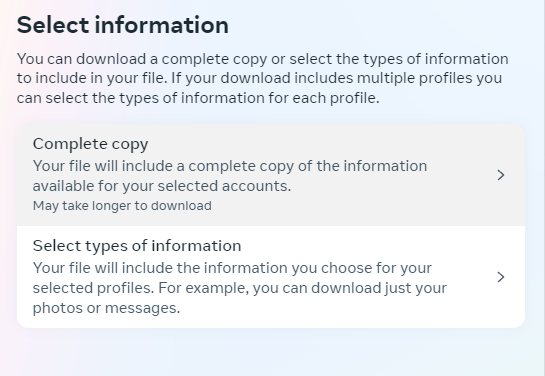
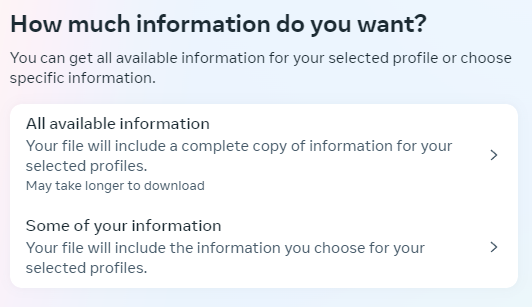
Guide Updated!

diff --git a/src/components/Upload.jsx b/src/components/Upload.jsx
@@ -109,7 +109,7 @@ function Upload() {
                             <div className="w-full mt-5 pb-4">
                                 <div>
                                     <div className="text-6xl font-bold text-white mb-2" style={{ fontFamily: 'MatterTRIAL' }}><span className={`text-[#06f]`} style={{ fontFamily: 'MatterTRIAL' }}>A</span>bout</div>
-                                    <div className="mt-6 text-xl font-medium flex flex-col p-4 lg:p-0 gap-2 items-center text-white"><span className='gap-2'>This is an <a className="opensrc underline underline-offset-2 hover:underline-offset-4 duration-150" style={{ textDecorationColor: '#06f' }} href="https://github.com/CoderPopCat/instawrapper">Open Source</a> Instagram Data Package Explorer, built with&nbsp;<svg className='inline' xmlns="http://www.w3.org/2000/svg" xmlns:xlink="http://www.w3.org/1999/xlink" aria-hidden="true" role="img" class="iconify iconify--logos" width="35.93" height="32" preserveAspectRatio="xMidYMid meet" viewBox="0 0 256 228"><path fill="#00D8FF" d="M210.483 73.824a171.49 171.49 0 0 0-8.24-2.597c.465-1.9.893-3.777 1.273-5.621c6.238-30.281 2.16-54.676-11.769-62.708c-13.355-7.7-35.196.329-57.254 19.526a171.23 171.23 0 0 0-6.375 5.848a155.866 155.866 0 0 0-4.241-3.917C100.759 3.829 77.587-4.822 63.673 3.233C50.33 10.957 46.379 33.89 51.995 62.588a170.974 170.974 0 0 0 1.892 8.48c-3.28.932-6.445 1.924-9.474 2.98C17.309 83.498 0 98.307 0 113.668c0 15.865 18.582 31.778 46.812 41.427a145.52 145.52 0 0 0 6.921 2.165a167.467 167.467 0 0 0-2.01 9.138c-5.354 28.2-1.173 50.591 12.134 58.266c13.744 7.926 36.812-.22 59.273-19.855a145.567 145.567 0 0 0 5.342-4.923a168.064 168.064 0 0 0 6.92 6.314c21.758 18.722 43.246 26.282 56.54 18.586c13.731-7.949 18.194-32.003 12.4-61.268a145.016 145.016 0 0 0-1.535-6.842c1.62-.48 3.21-.974 4.76-1.488c29.348-9.723 48.443-25.443 48.443-41.52c0-15.417-17.868-30.326-45.517-39.844Zm-6.365 70.984c-1.4.463-2.836.91-4.3 1.345c-3.24-10.257-7.612-21.163-12.963-32.432c5.106-11 9.31-21.767 12.459-31.957c2.619.758 5.16 1.557 7.61 2.4c23.69 8.156 38.14 20.213 38.14 29.504c0 9.896-15.606 22.743-40.946 31.14Zm-10.514 20.834c2.562 12.94 2.927 24.64 1.23 33.787c-1.524 8.219-4.59 13.698-8.382 15.893c-8.067 4.67-25.32-1.4-43.927-17.412a156.726 156.726 0 0 1-6.437-5.87c7.214-7.889 14.423-17.06 21.459-27.246c12.376-1.098 24.068-2.894 34.671-5.345a134.17 134.17 0 0 1 1.386 6.193ZM87.276 214.515c-7.882 2.783-14.16 2.863-17.955.675c-8.075-4.657-11.432-22.636-6.853-46.752a156.923 156.923 0 0 1 1.869-8.499c10.486 2.32 22.093 3.988 34.498 4.994c7.084 9.967 14.501 19.128 21.976 27.15a134.668 134.668 0 0 1-4.877 4.492c-9.933 8.682-19.886 14.842-28.658 17.94ZM50.35 144.747c-12.483-4.267-22.792-9.812-29.858-15.863c-6.35-5.437-9.555-10.836-9.555-15.216c0-9.322 13.897-21.212 37.076-29.293c2.813-.98 5.757-1.905 8.812-2.773c3.204 10.42 7.406 21.315 12.477 32.332c-5.137 11.18-9.399 22.249-12.634 32.792a134.718 134.718 0 0 1-6.318-1.979Zm12.378-84.26c-4.811-24.587-1.616-43.134 6.425-47.789c8.564-4.958 27.502 2.111 47.463 19.835a144.318 144.318 0 0 1 3.841 3.545c-7.438 7.987-14.787 17.08-21.808 26.988c-12.04 1.116-23.565 2.908-34.161 5.309a160.342 160.342 0 0 1-1.76-7.887Zm110.427 27.268a347.8 347.8 0 0 0-7.785-12.803c8.168 1.033 15.994 2.404 23.343 4.08c-2.206 7.072-4.956 14.465-8.193 22.045a381.151 381.151 0 0 0-7.365-13.322Zm-45.032-43.861c5.044 5.465 10.096 11.566 15.065 18.186a322.04 322.04 0 0 0-30.257-.006c4.974-6.559 10.069-12.652 15.192-18.18ZM82.802 87.83a323.167 323.167 0 0 0-7.227 13.238c-3.184-7.553-5.909-14.98-8.134-22.152c7.304-1.634 15.093-2.97 23.209-3.984a321.524 321.524 0 0 0-7.848 12.897Zm8.081 65.352c-8.385-.936-16.291-2.203-23.593-3.793c2.26-7.3 5.045-14.885 8.298-22.6a321.187 321.187 0 0 0 7.257 13.246c2.594 4.48 5.28 8.868 8.038 13.147Zm37.542 31.03c-5.184-5.592-10.354-11.779-15.403-18.433c4.902.192 9.899.29 14.978.29c5.218 0 10.376-.117 15.453-.343c-4.985 6.774-10.018 12.97-15.028 18.486Zm52.198-57.817c3.422 7.8 6.306 15.345 8.596 22.52c-7.422 1.694-15.436 3.058-23.88 4.071a382.417 382.417 0 0 0 7.859-13.026a347.403 347.403 0 0 0 7.425-13.565Zm-16.898 8.101a358.557 358.557 0 0 1-12.281 19.815a329.4 329.4 0 0 1-23.444.823c-7.967 0-15.716-.248-23.178-.732a310.202 310.202 0 0 1-12.513-19.846h.001a307.41 307.41 0 0 1-10.923-20.627a310.278 310.278 0 0 1 10.89-20.637l-.001.001a307.318 307.318 0 0 1 12.413-19.761c7.613-.576 15.42-.876 23.31-.876H128c7.926 0 15.743.303 23.354.883a329.357 329.357 0 0 1 12.335 19.695a358.489 358.489 0 0 1 11.036 20.54a329.472 329.472 0 0 1-11 20.722Zm22.56-122.124c8.572 4.944 11.906 24.881 6.52 51.026c-.344 1.668-.73 3.367-1.15 5.09c-10.622-2.452-22.155-4.275-34.23-5.408c-7.034-10.017-14.323-19.124-21.64-27.008a160.789 160.789 0 0 1 5.888-5.4c18.9-16.447 36.564-22.941 44.612-18.3ZM128 90.808c12.625 0 22.86 10.235 22.86 22.86s-10.235 22.86-22.86 22.86s-22.86-10.235-22.86-22.86s10.235-22.86 22.86-22.86Z"></path></svg>&nbsp;&&nbsp;<i className="text-[red] fas fa-heart"></i></span><span className="gap-2">Your data is <span className="text-[#06f]">NOT</span> sent to our servers, and is processed by your device itself.</span><span className="gap-2">This tool is open source on GitHub, You may view the code / Host it on your own machine.</span></div>
+                                    <div className="mt-6 text-xl font-medium flex flex-col p-4 lg:p-0 gap-2 items-center text-white"><span className='gap-2'>This is an <a className="opensrc underline underline-offset-2 hover:underline-offset-4 duration-150" style={{ textDecorationColor: '#06f' }} href="https://github.com/CoderPopCat/instawrapped">Open Source</a> Instagram Data Package Explorer, built with&nbsp;<svg className='inline' xmlns="http://www.w3.org/2000/svg" xmlns:xlink="http://www.w3.org/1999/xlink" aria-hidden="true" role="img" class="iconify iconify--logos" width="35.93" height="32" preserveAspectRatio="xMidYMid meet" viewBox="0 0 256 228"><path fill="#00D8FF" d="M210.483 73.824a171.49 171.49 0 0 0-8.24-2.597c.465-1.9.893-3.777 1.273-5.621c6.238-30.281 2.16-54.676-11.769-62.708c-13.355-7.7-35.196.329-57.254 19.526a171.23 171.23 0 0 0-6.375 5.848a155.866 155.866 0 0 0-4.241-3.917C100.759 3.829 77.587-4.822 63.673 3.233C50.33 10.957 46.379 33.89 51.995 62.588a170.974 170.974 0 0 0 1.892 8.48c-3.28.932-6.445 1.924-9.474 2.98C17.309 83.498 0 98.307 0 113.668c0 15.865 18.582 31.778 46.812 41.427a145.52 145.52 0 0 0 6.921 2.165a167.467 167.467 0 0 0-2.01 9.138c-5.354 28.2-1.173 50.591 12.134 58.266c13.744 7.926 36.812-.22 59.273-19.855a145.567 145.567 0 0 0 5.342-4.923a168.064 168.064 0 0 0 6.92 6.314c21.758 18.722 43.246 26.282 56.54 18.586c13.731-7.949 18.194-32.003 12.4-61.268a145.016 145.016 0 0 0-1.535-6.842c1.62-.48 3.21-.974 4.76-1.488c29.348-9.723 48.443-25.443 48.443-41.52c0-15.417-17.868-30.326-45.517-39.844Zm-6.365 70.984c-1.4.463-2.836.91-4.3 1.345c-3.24-10.257-7.612-21.163-12.963-32.432c5.106-11 9.31-21.767 12.459-31.957c2.619.758 5.16 1.557 7.61 2.4c23.69 8.156 38.14 20.213 38.14 29.504c0 9.896-15.606 22.743-40.946 31.14Zm-10.514 20.834c2.562 12.94 2.927 24.64 1.23 33.787c-1.524 8.219-4.59 13.698-8.382 15.893c-8.067 4.67-25.32-1.4-43.927-17.412a156.726 156.726 0 0 1-6.437-5.87c7.214-7.889 14.423-17.06 21.459-27.246c12.376-1.098 24.068-2.894 34.671-5.345a134.17 134.17 0 0 1 1.386 6.193ZM87.276 214.515c-7.882 2.783-14.16 2.863-17.955.675c-8.075-4.657-11.432-22.636-6.853-46.752a156.923 156.923 0 0 1 1.869-8.499c10.486 2.32 22.093 3.988 34.498 4.994c7.084 9.967 14.501 19.128 21.976 27.15a134.668 134.668 0 0 1-4.877 4.492c-9.933 8.682-19.886 14.842-28.658 17.94ZM50.35 144.747c-12.483-4.267-22.792-9.812-29.858-15.863c-6.35-5.437-9.555-10.836-9.555-15.216c0-9.322 13.897-21.212 37.076-29.293c2.813-.98 5.757-1.905 8.812-2.773c3.204 10.42 7.406 21.315 12.477 32.332c-5.137 11.18-9.399 22.249-12.634 32.792a134.718 134.718 0 0 1-6.318-1.979Zm12.378-84.26c-4.811-24.587-1.616-43.134 6.425-47.789c8.564-4.958 27.502 2.111 47.463 19.835a144.318 144.318 0 0 1 3.841 3.545c-7.438 7.987-14.787 17.08-21.808 26.988c-12.04 1.116-23.565 2.908-34.161 5.309a160.342 160.342 0 0 1-1.76-7.887Zm110.427 27.268a347.8 347.8 0 0 0-7.785-12.803c8.168 1.033 15.994 2.404 23.343 4.08c-2.206 7.072-4.956 14.465-8.193 22.045a381.151 381.151 0 0 0-7.365-13.322Zm-45.032-43.861c5.044 5.465 10.096 11.566 15.065 18.186a322.04 322.04 0 0 0-30.257-.006c4.974-6.559 10.069-12.652 15.192-18.18ZM82.802 87.83a323.167 323.167 0 0 0-7.227 13.238c-3.184-7.553-5.909-14.98-8.134-22.152c7.304-1.634 15.093-2.97 23.209-3.984a321.524 321.524 0 0 0-7.848 12.897Zm8.081 65.352c-8.385-.936-16.291-2.203-23.593-3.793c2.26-7.3 5.045-14.885 8.298-22.6a321.187 321.187 0 0 0 7.257 13.246c2.594 4.48 5.28 8.868 8.038 13.147Zm37.542 31.03c-5.184-5.592-10.354-11.779-15.403-18.433c4.902.192 9.899.29 14.978.29c5.218 0 10.376-.117 15.453-.343c-4.985 6.774-10.018 12.97-15.028 18.486Zm52.198-57.817c3.422 7.8 6.306 15.345 8.596 22.52c-7.422 1.694-15.436 3.058-23.88 4.071a382.417 382.417 0 0 0 7.859-13.026a347.403 347.403 0 0 0 7.425-13.565Zm-16.898 8.101a358.557 358.557 0 0 1-12.281 19.815a329.4 329.4 0 0 1-23.444.823c-7.967 0-15.716-.248-23.178-.732a310.202 310.202 0 0 1-12.513-19.846h.001a307.41 307.41 0 0 1-10.923-20.627a310.278 310.278 0 0 1 10.89-20.637l-.001.001a307.318 307.318 0 0 1 12.413-19.761c7.613-.576 15.42-.876 23.31-.876H128c7.926 0 15.743.303 23.354.883a329.357 329.357 0 0 1 12.335 19.695a358.489 358.489 0 0 1 11.036 20.54a329.472 329.472 0 0 1-11 20.722Zm22.56-122.124c8.572 4.944 11.906 24.881 6.52 51.026c-.344 1.668-.73 3.367-1.15 5.09c-10.622-2.452-22.155-4.275-34.23-5.408c-7.034-10.017-14.323-19.124-21.64-27.008a160.789 160.789 0 0 1 5.888-5.4c18.9-16.447 36.564-22.941 44.612-18.3ZM128 90.808c12.625 0 22.86 10.235 22.86 22.86s-10.235 22.86-22.86 22.86s-22.86-10.235-22.86-22.86s10.235-22.86 22.86-22.86Z"></path></svg>&nbsp;&&nbsp;<i className="text-[red] fas fa-heart"></i></span><span className="gap-2">Your data is <span className="text-[#06f]">NOT</span> sent to our servers, and is processed by your device itself.</span><span className="gap-2">This tool is open source on GitHub, You may view the code / Host it on your own machine.</span></div>
                                 </div>
                             </div>
                             <div className="credits flex gap-2 justify-center items-center">
@@ -117,7 +117,7 @@ function Upload() {
                             </div>
                         </div>
                     </div>}
-                    {!result && (<p className="text-xl"><a className="opensrc underline underline-offset-2 hover:underline-offset-4 duration-150" style={{ textDecorationColor: '#06f' }} href="https://github.com/CoderPopCat/instawrapper">Open Source</a> Instagram Data Package Explorer by <a className="creditname opensrc underline underline-offset-2 hover:underline-offset-4 duration-150" style={{ textDecorationColor: '#06f' }} href="https://zero.is-a.dev" target='_blank'>Sharan</a></p>)}
+                    {!result && (<p className="text-xl"><a className="opensrc underline underline-offset-2 hover:underline-offset-4 duration-150" style={{ textDecorationColor: '#06f' }} href="https://github.com/CoderPopCat/instawrapped">Open Source</a> Instagram Data Package Explorer by <a className="creditname opensrc underline underline-offset-2 hover:underline-offset-4 duration-150" style={{ textDecorationColor: '#06f' }} href="https://zero.is-a.dev" target='_blank'>Sharan</a></p>)}
                     {!result && (
                         <>
                             <Tooltip id='about' />

diff --git a/src/components/Guide.jsx b/src/components/Guide.jsx
@@ -15,9 +15,11 @@ function Guide() {
                                 <img src="/assets/img/continue.png" alt="Continue" className='rounded-lg' />
                                 <h3 className='line flex items-center text-left text-[27px]'>Click Continue</h3>
                                 <img src="/assets/img/request.png" alt="" className="rounded-lg" />
-                                <p className='line text-left text-[22px]'>Press 'Request A Download'</p>
+                                <p className='line text-left text-[22px]'>Press 'Download or Transfer Information'</p>
                                 <img src="/assets/img/complete.png" alt="complete" className="rounded-lg" />
-                                <p className='line text-left text-[22px]'>Complete Copy</p>
+                                <p className='line text-left text-[22px]'>All Available Information</p>
+                                <img src="/assets/img/todevice.png" alt="to device" className='rounded-lg' />
+                                <p className="line text-left text-[22px]">Download to Device</p>
                                 <img src="/assets/img/options.png" alt="options" className="rounded-lg w-[100%]" />
                                 <img src="/assets/img/format.png" alt="format" className='rounded-lg' />
                                 <p className='line text-left text-[22px]'>Select 'All Time' Date range & JSON format.</p>
@@ -31,8 +33,10 @@ function Guide() {
                                 <h3 className='line flex items-center text-left text-[27px]'>Click</h3>
                                 <img src="/assets/img/download.jpg" alt="" className="rounded-lg" />
                                 <p className='line text-left text-[22px]'>Scroll Down And Click 'Download Your Information'</p>
-                                <img src="/assets/img/phone-select.jpg" alt="complete" className="rounded-lg" />
-                                <p className='line text-left text-[22px]'>Complete Copy</p>
+                                <img src="/assets/img/transfer.jpg" alt="to device" className='rounded-lg' />
+                                <p className="line text-left text-[22px]">Download to Device</p>
+                                <img src="/assets/img/phone-select.png" alt="complete" className="rounded-lg" />
+                                <p className='line text-left text-[22px]'>All Available Information</p>
                                 <img src="/assets/img/phone-json.jpg" alt="format" className='rounded-lg' />
                                 <p className='line text-left text-[22px]'>Select 'All Time' Date range & JSON format.</p>
                             </div>
